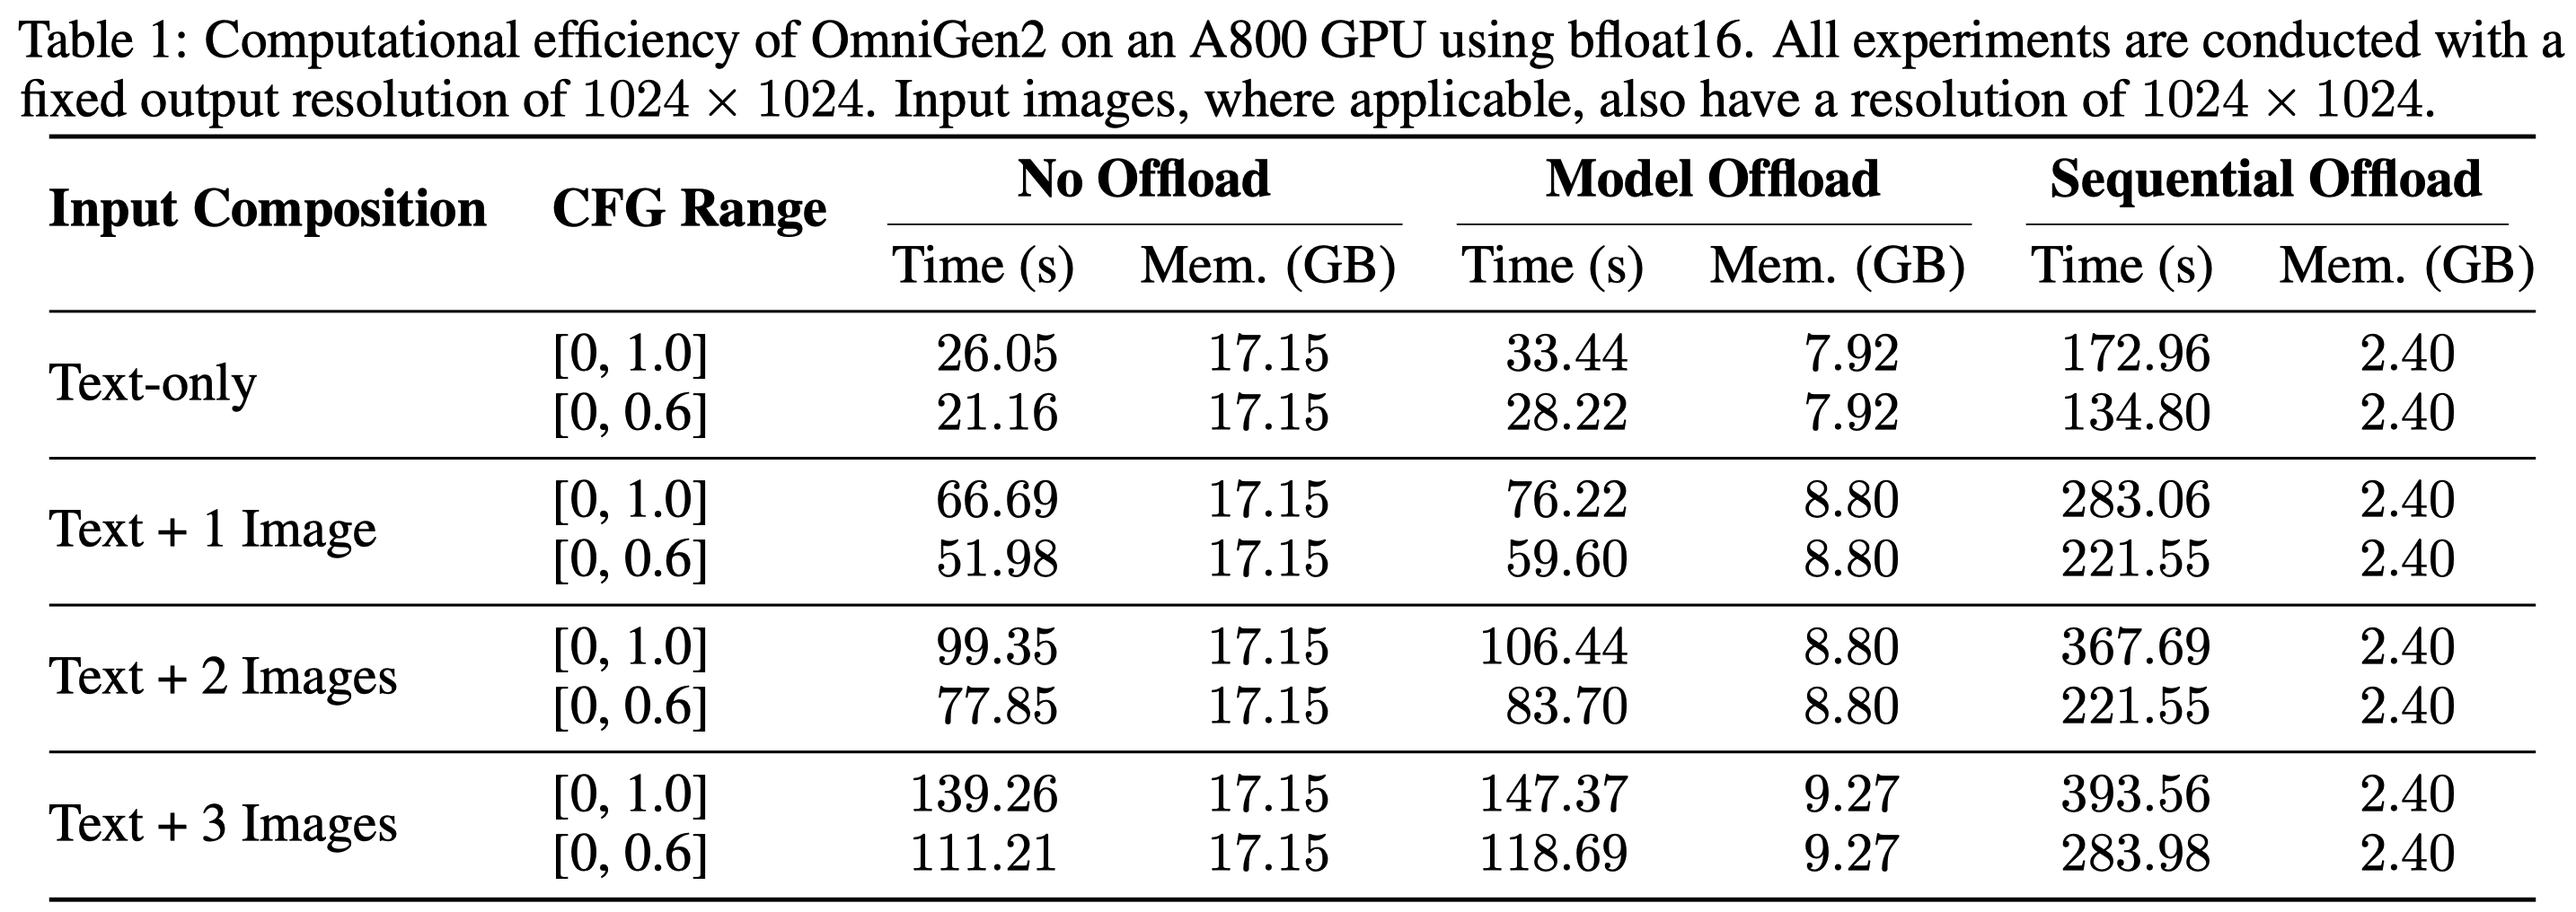
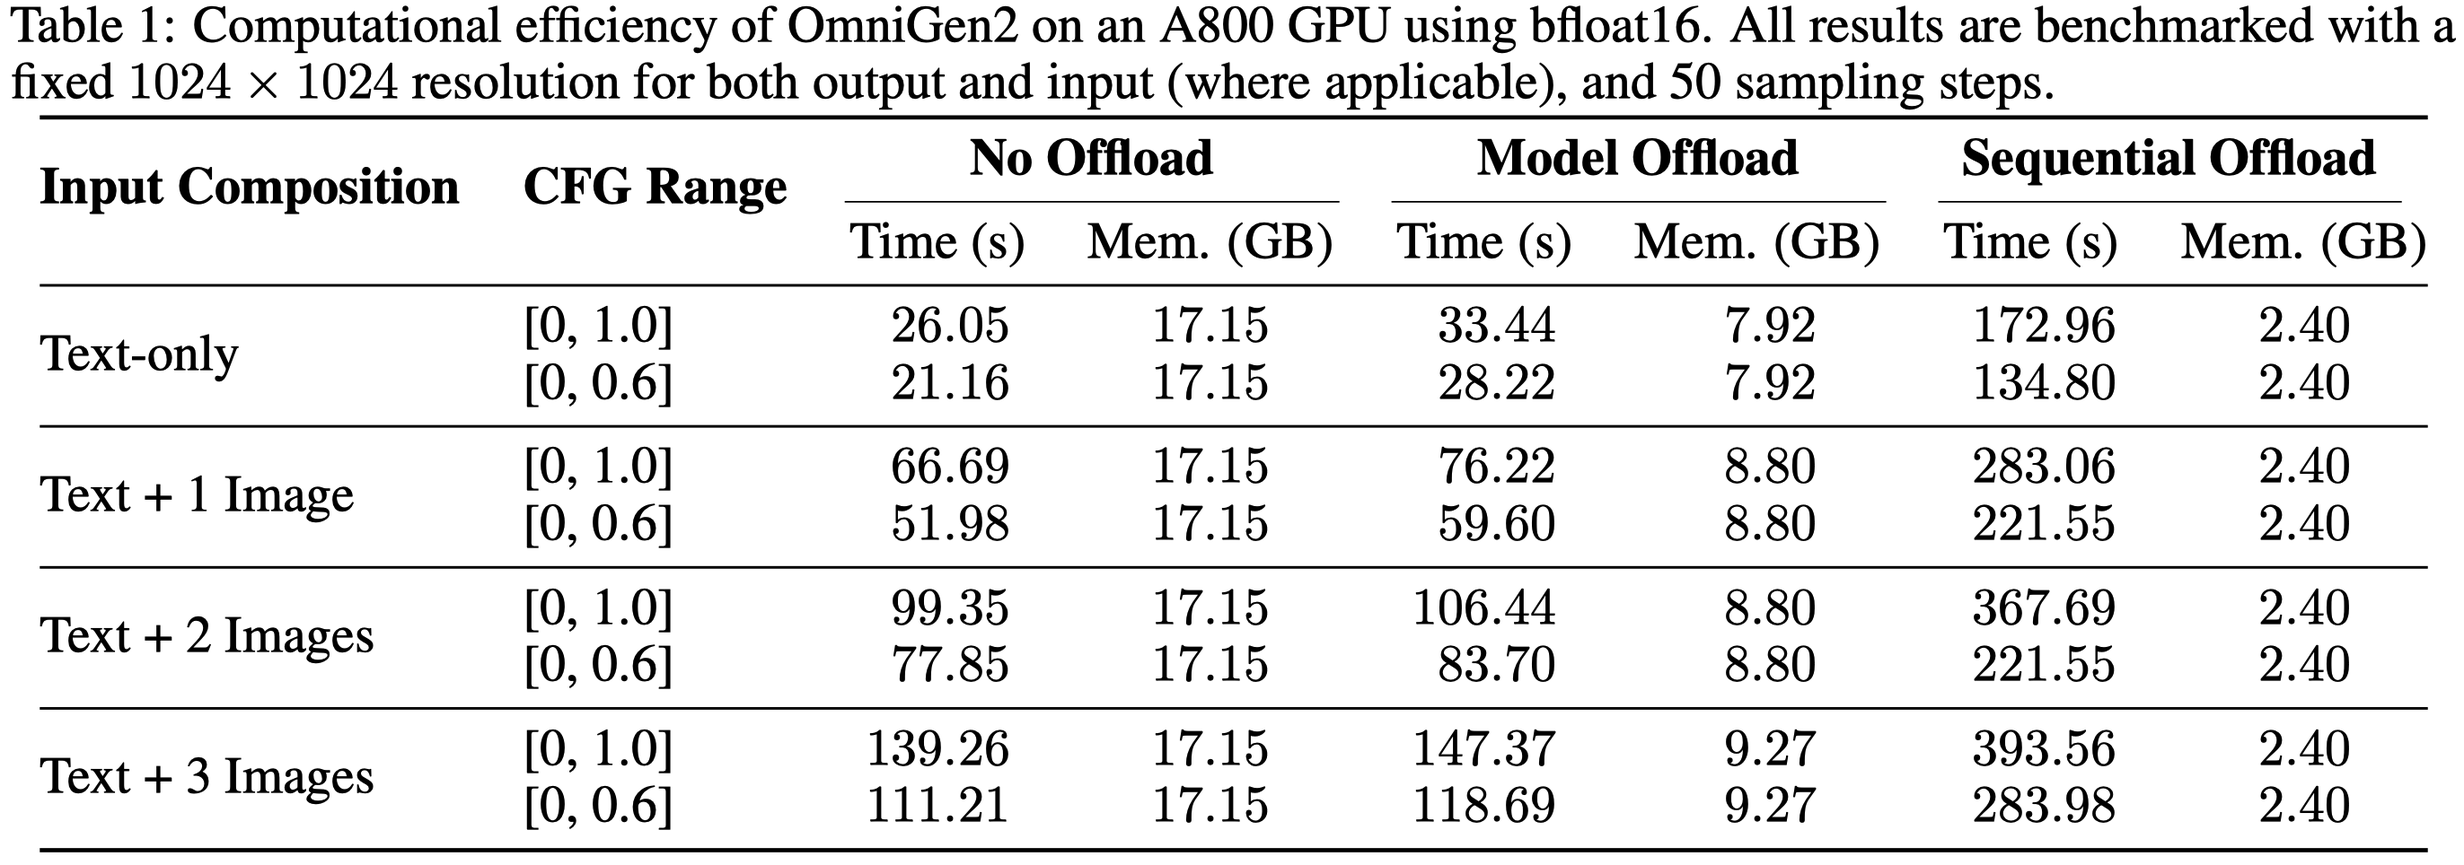
update readme

diff --git a/README.md b/README.md
@@ -61,7 +61,7 @@ As an open-source project, OmniGen2 provides a powerful yet resource-efficient f
 ## 📌 TODO
 - [ ] Technical report.
 - [ ] In-context generation benchmark: **OmniContext**.
-- [ ] Support CPU offload and improve inference efficiency.
+- [x] Support CPU offload and improve inference efficiency.
 - [ ] Integrated in diffusers.
 - [ ] Training data and scripts.
 - [ ] Data construction pipeline.
